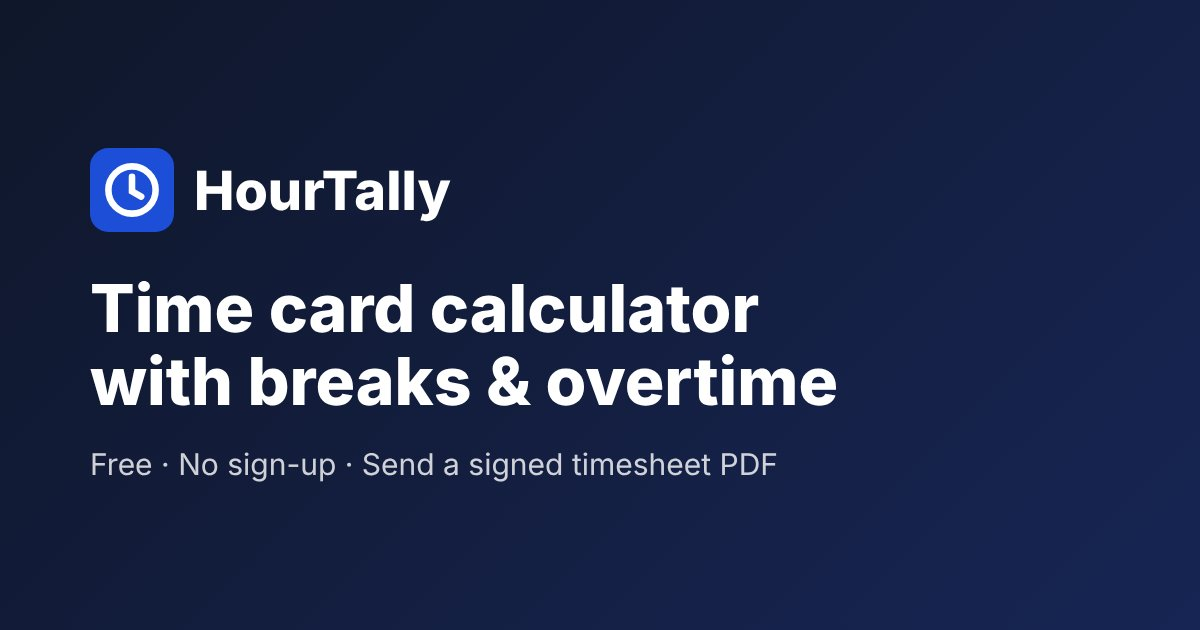
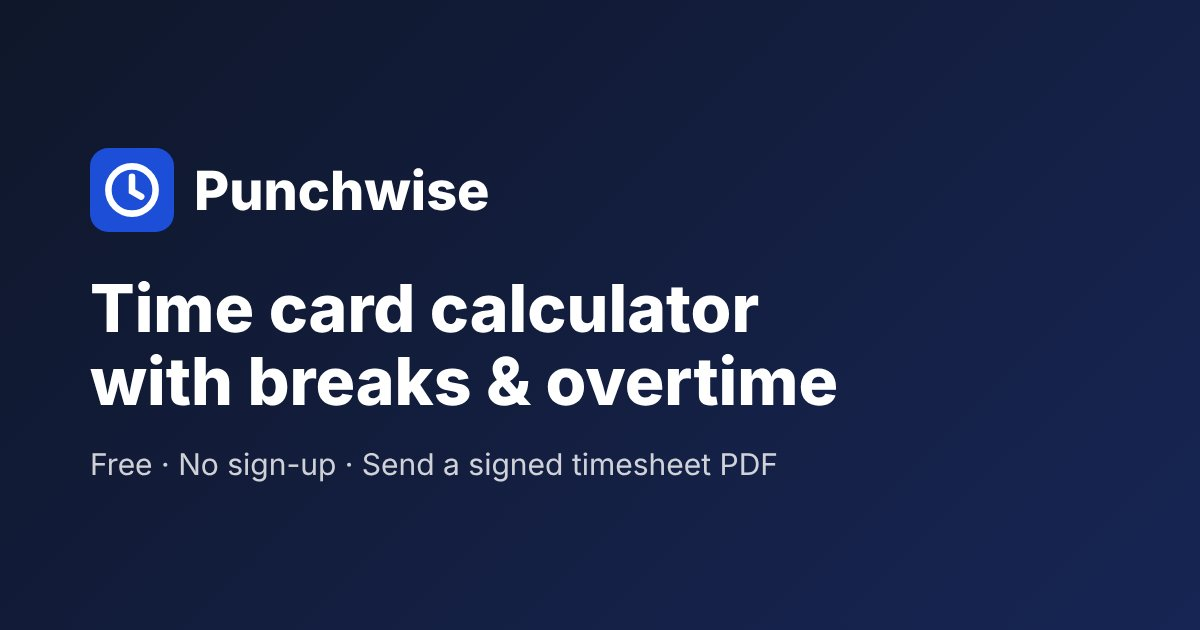
Rename product HourTally -> Punchwise (hourtally.com was taken)
Brand, logo, PDFs, share card, og image, manifest, site URL (punchwise.com),
Pages project and Analytics Engine dataset names, docs. Old backups still import.
65 unit + 78 browser tests passing on wrangler pages dev.

Claude-Session: https://claude.ai/code/session_01LDLRVn7kZsVwxJQjHk7zyM

Changed region(s): [[0.1542, 0.2714, 0.4317, 0.3619]]

diff --git a/src/lib/input.test.ts b/src/lib/input.test.ts
@@ -98,15 +98,15 @@ describe('privacy: redact before sharing', () => {
 import { classify, withRef } from './track';
 describe('attribution', () => {
   it('classifies arrivals', () => {
-    expect(classify('/', '?ref=invite', '', 'hourtally.app')).toBe('coworker_invitation');
-    expect(classify('/', '?ref=embed', 'https://blog.example.com/', 'hourtally.app')).toBe('embedded_calculator');
-    expect(classify('/', '?ref=card', '', 'hourtally.app')).toBe('shared_result');
-    expect(classify('/view/', '', '', 'hourtally.app')).toBe('shared_result');
-    expect(classify('/', '', 'https://www.google.com/', 'hourtally.app')).toBe('organic_search');
-    expect(classify('/', '', 'https://duckduckgo.com/', 'hourtally.app')).toBe('organic_search');
-    expect(classify('/', '', '', 'hourtally.app')).toBe('direct');
-    expect(classify('/', '', 'https://hourtally.app/overtime-calculator/', 'hourtally.app')).toBe('direct');
-    expect(classify('/', '', 'https://reddit.com/r/x', 'hourtally.app')).toBe('other_referral');
+    expect(classify('/', '?ref=invite', '', 'punchwise.com')).toBe('coworker_invitation');
+    expect(classify('/', '?ref=embed', 'https://blog.example.com/', 'punchwise.com')).toBe('embedded_calculator');
+    expect(classify('/', '?ref=card', '', 'punchwise.com')).toBe('shared_result');
+    expect(classify('/view/', '', '', 'punchwise.com')).toBe('shared_result');
+    expect(classify('/', '', 'https://www.google.com/', 'punchwise.com')).toBe('organic_search');
+    expect(classify('/', '', 'https://duckduckgo.com/', 'punchwise.com')).toBe('organic_search');
+    expect(classify('/', '', '', 'punchwise.com')).toBe('direct');
+    expect(classify('/', '', 'https://punchwise.com/overtime-calculator/', 'punchwise.com')).toBe('direct');
+    expect(classify('/', '', 'https://reddit.com/r/x', 'punchwise.com')).toBe('other_referral');
   });
   it('withRef keeps the fragment after the query', () => {
     expect(withRef('https://x.app/view/#d=abc', 'share')).toBe('https://x.app/view/?ref=share#d=abc');

diff --git a/src/lib/collector.test.ts b/src/lib/collector.test.ts
@@ -10,7 +10,7 @@ function fakeEnv() {
 // eslint-disable-next-line @typescript-eslint/no-explicit-any
 const call = (req: Request, env: any) => onRequest({ request: req, env });
 const post = (body: string, headers: Record<string, string> = {}) =>
-  new Request('https://hourtally.pages.dev/api/e', { method: 'POST', body, headers: { 'content-type': 'application/json', ...headers } });
+  new Request('https://punchwise.com/api/e', { method: 'POST', body, headers: { 'content-type': 'application/json', ...headers } });
 
 describe('client batch body', () => {
   it('is null when nothing happened, compact JSON otherwise', () => {
@@ -41,7 +41,7 @@ describe('parseBatch (strict allow-list)', () => {
 describe('POST /api/e collector', () => {
   it('writes one data point per event: blobs [event, attribution], double = count, index = event', async () => {
     const { points, env } = fakeEnv();
-    const res = await call(post(JSON.stringify({ a: 'shared_result', e: { calculator_opened: 1, calculation_completed: 1 } }), { origin: 'https://hourtally.pages.dev' }), env);
+    const res = await call(post(JSON.stringify({ a: 'shared_result', e: { calculator_opened: 1, calculation_completed: 1 } }), { origin: 'https://punchwise.com' }), env);
     expect(res.status).toBe(204);
     expect(points).toEqual([
       { indexes: ['calculator_opened'], blobs: ['calculator_opened', 'shared_result'], doubles: [1] },
@@ -56,7 +56,7 @@ describe('POST /api/e collector', () => {
   it('rejects cross-site posts and non-POST methods', async () => {
     const { points, env } = fakeEnv();
     expect((await call(post('{}', { origin: 'https://evil.example' }), env)).status).toBe(403);
-    expect((await call(new Request('https://hourtally.pages.dev/api/e'), env)).status).toBe(405);
+    expect((await call(new Request('https://punchwise.com/api/e'), env)).status).toBe(405);
     expect(points).toHaveLength(0);
   });
   it('invalid batches are accepted silently but not stored', async () => {

diff --git a/src/lib/db.ts b/src/lib/db.ts
@@ -1,7 +1,7 @@
 import { openDB, type IDBPDatabase } from 'idb';
 import type { Timesheet } from './model';
 
-const DB_NAME = 'hourtally';
+const DB_NAME = 'punchwise';
 const VERSION = 1;
 let dbp: Promise<IDBPDatabase> | null = null;
 /** True when IndexedDB is unavailable (some private modes). Data then lives in memory only. */
@@ -52,16 +52,17 @@ export async function requestPersistence(): Promise<boolean> {
   try { return (await navigator.storage?.persist?.()) ?? false; } catch { return false; }
 }
 
-export type Backup = { app: 'hourtally'; version: 1; exportedAt: string; sheets: Timesheet[] };
+export type Backup = { app: 'punchwise'; version: 1; exportedAt: string; sheets: Timesheet[] };
 
 export async function exportBackup(): Promise<Backup> {
-  return { app: 'hourtally', version: 1, exportedAt: new Date().toISOString(), sheets: await listSheets() };
+  return { app: 'punchwise', version: 1, exportedAt: new Date().toISOString(), sheets: await listSheets() };
 }
 
 /** Imports sheets from a backup file; returns how many were imported. Existing ids are overwritten. */
 export async function importBackup(json: string): Promise<number> {
   const o = JSON.parse(json);
-  if (!o || o.app !== 'hourtally' || !Array.isArray(o.sheets)) throw new Error('This file is not an HourTally backup.');
+  // 'punchwise' = backups made before the rename
+  if (!o || (o.app !== 'punchwise' && o.app !== 'punchwise') || !Array.isArray(o.sheets)) throw new Error('This file is not a Punchwise backup.');
   let n = 0;
   for (const s of o.sheets) {
     if (s && typeof s.id === 'string' && typeof s.startDate === 'string' && Array.isArray(s.days) && s.settings) {

diff --git a/src/site.ts b/src/site.ts
@@ -1,6 +1,6 @@
 /** Single place for the brand and deployment settings. Rename the product here. */
-export const SITE_NAME = 'HourTally';
+export const SITE_NAME = 'Punchwise';
 export const SITE_TAGLINE = 'Free time card calculator';
-export const SITE_URL: string = (import.meta.env.VITE_SITE_URL || 'https://hourtally.pages.dev').replace(/\/$/, '');
+export const SITE_URL: string = (import.meta.env.VITE_SITE_URL || 'https://punchwise.com').replace(/\/$/, '');
 export const CF_BEACON_TOKEN: string = import.meta.env.VITE_CF_BEACON_TOKEN || '';
 export const SITE_HOST = SITE_URL.replace(/^https?:\/\//, '');

diff --git a/src/pages/Saved.tsx b/src/pages/Saved.tsx
@@ -30,7 +30,7 @@ export default function Saved() {
   };
   const backup = async () => {
     const b = await exportBackup();
-    downloadBlob(new Blob([JSON.stringify(b)], { type: 'application/json' }), `hourtally-backup-${b.exportedAt.slice(0, 10)}.json`);
+    downloadBlob(new Blob([JSON.stringify(b)], { type: 'application/json' }), `punchwise-backup-${b.exportedAt.slice(0, 10)}.json`);
   };
   const restore = async (f: File) => {
     try { const n = await importBackup(await f.text()); showToast(`Restored ${n} timesheet${n === 1 ? '' : 's'}`); reload(); }

diff --git a/src/components/ShareCardModal.tsx b/src/components/ShareCardModal.tsx
@@ -27,7 +27,7 @@ export function ShareCardModal({ open, onClose, startDate, days, res, onDone }: 
   }, [open, mode, startDate, days, res, onDone]);
 
   if (!open) return null;
-  const filename = `hourtally-${days > 7 ? 'two-weeks' : 'my-week'}-${startDate}.png`;
+  const filename = `punchwise-${days > 7 ? 'two-weeks' : 'my-week'}-${startDate}.png`;
   const shareImage = async () => {
     if (!img) return;
     track('share_card_downloaded');

diff --git a/src/components/Layout.tsx b/src/components/Layout.tsx
@@ -12,7 +12,7 @@ function Logo() {
         <circle cx="16" cy="16" r="9" fill="none" stroke="#fff" strokeWidth="2.5" />
         <path d="M16 11v5.5l3.5 2" fill="none" stroke="#fff" strokeWidth="2.5" strokeLinecap="round" />
       </svg>
-      <span className="text-lg">Hour<span className="text-brand-600">Tally</span></span>
+      <span className="text-lg">Punch<span className="text-brand-600">wise</span></span>
     </Link>
   );
 }

diff --git a/README.md b/README.md
@@ -1,4 +1,4 @@
-# HourTally: free time card calculator
+# Punchwise: free time card calculator
 
 A privacy-first, mobile-first time card calculator. Users enter clock-in and clock-out times, breaks
 and overtime rules, then get weekly hours and pay and send or print a signed timesheet PDF.
@@ -83,7 +83,7 @@ Edit that file rather than the Cloudflare dashboard. All values are read **at bu
 
 | Variable | Purpose | Default |
 |---|---|---|
-| `VITE_SITE_URL` | Public URL with no trailing slash. Used for canonical tags, sitemap, Open Graph tags and the PDF footer link. | `https://hourtally.pages.dev` |
+| `VITE_SITE_URL` | Public URL with no trailing slash. Used for canonical tags, sitemap, Open Graph tags and the PDF footer link. | `https://punchwise.com` |
 | `VITE_CF_BEACON_TOKEN` | Cloudflare Web Analytics token. Empty turns analytics off. The token is public by design. | empty |
 | `VITE_EVENTS_URL` | Where growth batches are sent. Empty means the built-in `/api/e` collector; `off` disables sending. See `docs/timecard/growth-metrics.md`. | `/api/e` |
 
@@ -97,14 +97,16 @@ Edit that file rather than the Cloudflare dashboard. All values are read **at bu
    - Build output directory: **`dist`**
 
    The Node version comes from `timecard/.nvmrc` (22). `timecard/wrangler.toml` sets the output directory and
-   connects the **Analytics Engine** dataset `hourtally_events` to the `/api/e` function as the binding `EVENTS`. Cloudflare reads
+   connects the **Analytics Engine** dataset `punchwise_events` to the `/api/e` function as the binding `EVENTS`. Cloudflare reads
    that file on deploy, so there is no dashboard step for the binding. The dataset is created on the first write.
-4. Edit `timecard/.env.production`: set `VITE_SITE_URL` to your Pages URL (for example `https://hourtally.pages.dev`) or your custom domain.
+4. **Domain.** The site URL in `timecard/.env.production` is `https://punchwise.com`, and it's used for canonical links, the sitemap, PDF footers, share cards and invites.
+   After buying the domain, add it in the Pages project under **Custom domains** *before* the first public launch. If you launch
+   before the domain is connected, temporarily set `VITE_SITE_URL=https://punchwise.pages.dev` (or whatever Pages URL you're given) and push.
 5. **Web Analytics** (page views): go to **Analytics & Logs → Web Analytics → Add a site**, choose the manual JS snippet,
    copy the token, paste it into `VITE_CF_BEACON_TOKEN` in `.env.production`, then commit and push.
    (Cloudflare can also inject the beacon automatically for Pages sites. Use one method only.)
 6. Deploy. Pages serves `dist/404.html` for unknown URLs, and `_headers` sets caching and security headers.
-7. Check it: open the site, use the calculator, switch tabs, then go to **Workers & Pages → hourtally → Functions**
+7. Check it: open the site, use the calculator, switch tabs, then go to **Workers & Pages → punchwise → Functions**
    and confirm `/api/e` requests returning 204.
 8. Add the site to Google Search Console and submit `/sitemap.xml`.
 
